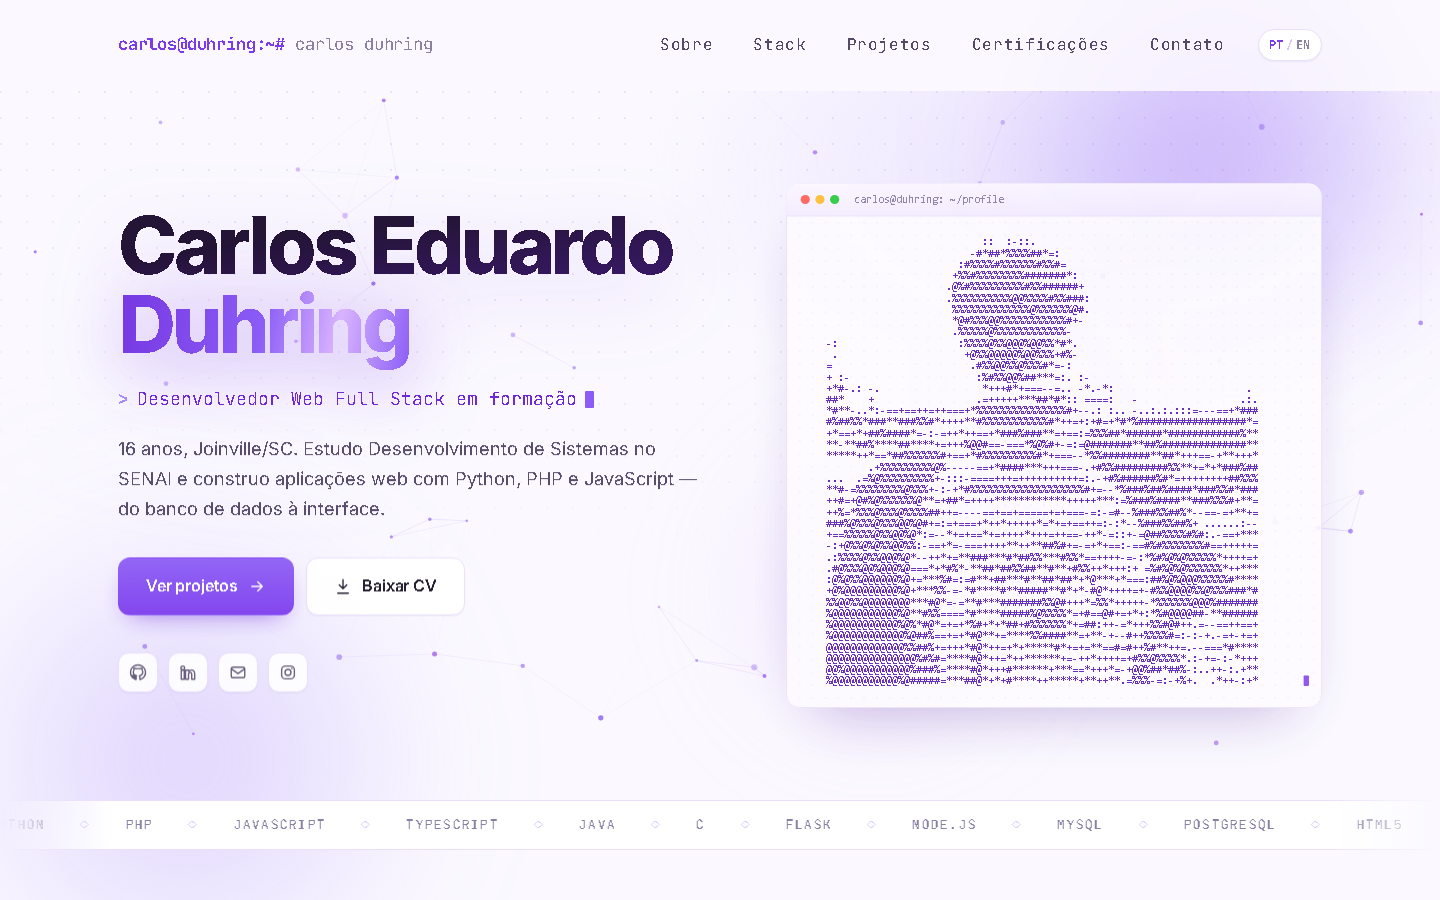
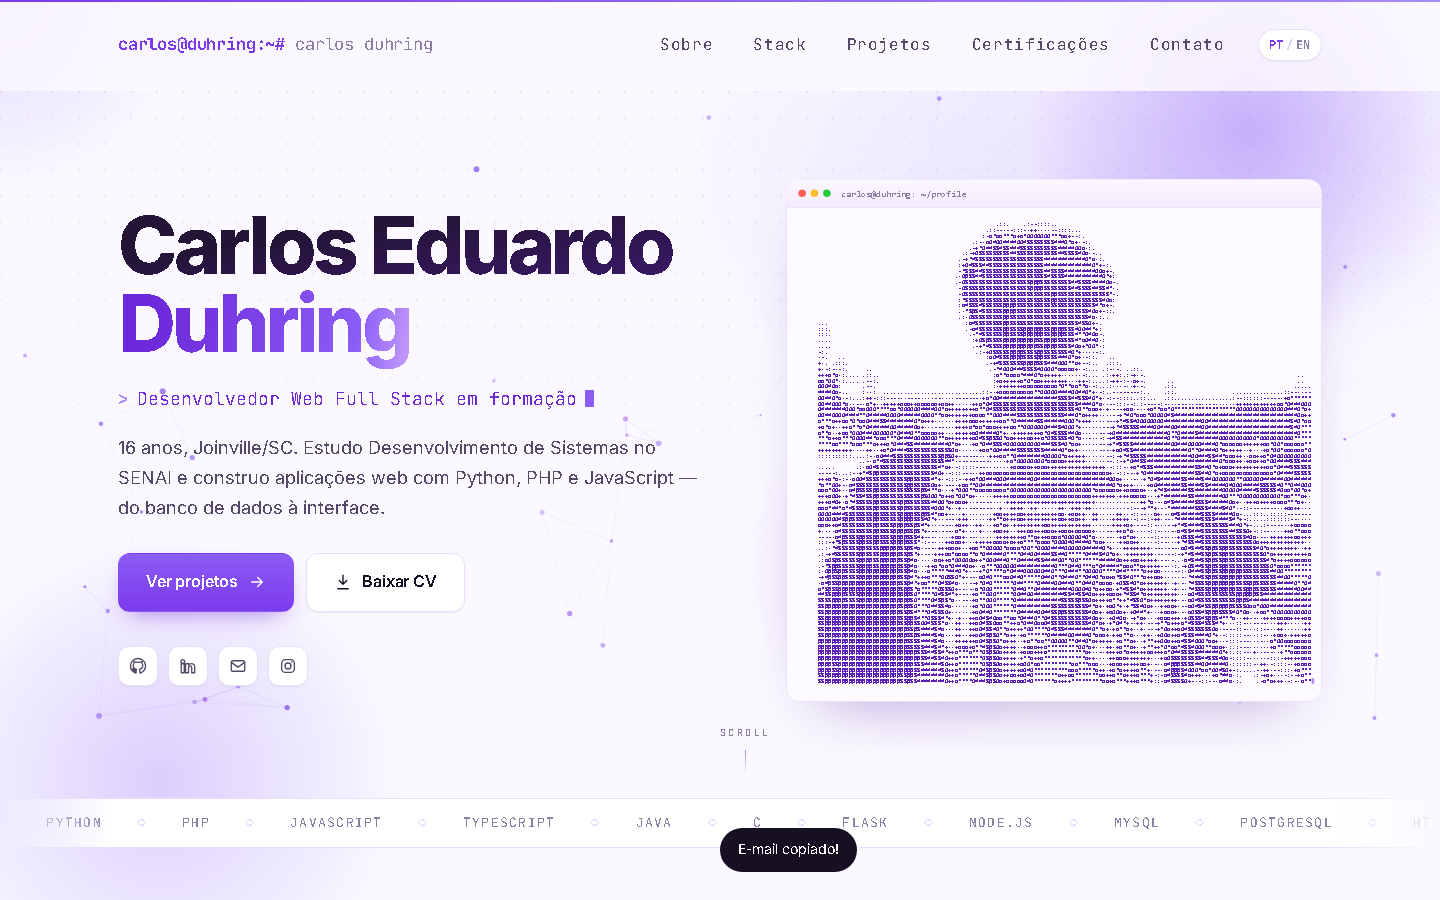
feat: ascii em 2x com reamostragem bicubica (144x80 caracteres)

diff --git a/scripts/build-ascii.js b/scripts/build-ascii.js
@@ -1,9 +1,14 @@
 /* Gera assets/img/ascii-avatar.svg a partir de assets/img/ascii-art.txt.
    Uso: node scripts/build-ascii.js
 
-   FIRST_ROW / LAST_ROW  -> recorte vertical (linhas da arte)
-   COL_START / COL_END   -> recorte horizontal (colunas)
-   SQUASH                -> comprime a altura (1 = original, 0.84 = mais quadrado)
+   O desenho base tem 72 colunas x 44 linhas. Para ganhar detalhe, ele e
+   reamostrado (bicubico + unsharp) para SCALE vezes mais colunas/linhas,
+   e depois convertido para uma rampa de 12 tons. Resultado: mesma pessoa,
+   com muito mais caracteres e transicoes suaves.
+
+   FIRST_ROW / LAST_ROW / COL_START / COL_END -> recorte do desenho base
+   SCALE   -> 2 = dobro de colunas e linhas
+   SQUASH  -> comprime a altura (1 = original)
 */
 
 const fs = require("fs");
@@ -13,46 +18,128 @@ const ROOT = path.resolve(__dirname, "..");
 const SRC = path.join(ROOT, "assets", "img", "ascii-art.txt");
 const OUT = path.join(ROOT, "assets", "img", "ascii-avatar.svg");
 
-const FIRST_ROW = 4; // corta o topo vazio
-const LAST_ROW = 43; // arte completa (até o fim)
+const FIRST_ROW = 4;
+const LAST_ROW = 43;
 const COL_START = 0;
 const COL_END = 72;
-const SQUASH = 0.84; // deixa o retrato mais quadrado, sem cortar nada
+const SCALE = 2;
+const SQUASH = 0.94;
 
-const FONT = 12;
+const RAMP = " .:-=+o*O#%@"; // 12 tons, do claro ao escuro
+const FONT = 6;
 const CHAR_W = FONT * 0.6;
-const LINE_H = FONT * 1.2167 * SQUASH;
-const PAD_X = 22;
-const BAR_H = 36;
-const PAD_TOP = 20;
-const PAD_BOTTOM = 18;
+const LINE_H = FONT * 1.08 * SQUASH;
+const BAR_H = 30;
+const PAD_TOP = 14;
+const PAD_BOTTOM = 14;
+const PAD_X = 12;
 
-const lines = fs.readFileSync(SRC, "utf8").replace(/\r/g, "").split("\n");
-
-const block = lines
+const raw = fs.readFileSync(SRC, "utf8").replace(/\r/g, "").split("\n");
+const base = raw
   .slice(FIRST_ROW, LAST_ROW + 1)
-  .map((line) => line.padEnd(COL_END, " ").slice(COL_START, COL_END).replace(/\s+$/, ""));
+  .map((l) => l.padEnd(COL_END, " ").slice(COL_START, COL_END));
 
-const cols = Math.max(...block.map((l) => l.length));
-// a cabeca nao fica no centro da arte original: desloca 3 colunas para
-// centralizar o rosto no card, sem cortar nada
-const PAD_LEFT = PAD_X + 3 * CHAR_W;
-const width = Math.round(cols * CHAR_W + PAD_LEFT + PAD_X);
+const SHADE = {};
+RAMP.split("").forEach((ch, i) => (SHADE[ch] = i / (RAMP.length - 1)));
+
+// 1. desenho base -> campo de densidade (0 = claro, 1 = escuro)
+const src = base.map((line) =>
+  [...line].map((ch) => (ch === " " ? 0 : SHADE[ch] !== undefined ? SHADE[ch] : 0.75))
+);
+
+// 2. bicubico (Catmull-Rom) com borda replicada
+const cr = (t) => {
+  const a = -0.5;
+  return t < 1
+    ? (a + 2) * t * t * t - (a + 3) * t * t + 1
+    : a * t * t * t - 5 * a * t * t + 8 * a * t - 4 * a;
+};
+const at = (grid, y, x) => {
+  const h = grid.length,
+    w = grid[0].length;
+  const yy = Math.min(h - 1, Math.max(0, y));
+  const xx = Math.min(w - 1, Math.max(0, x));
+  return grid[yy][xx];
+};
+function sampleBicubic(grid, fy, fx) {
+  const y0 = Math.floor(fy),
+    x0 = Math.floor(fx);
+  const ty = fy - y0,
+    tx = fx - x0;
+  let out = 0,
+    wsum = 0;
+  for (let m = -1; m <= 2; m++) {
+    const wy = cr(Math.abs(m - ty));
+    for (let n = -1; n <= 2; n++) {
+      const wx = cr(Math.abs(n - tx));
+      const w = wy * wx;
+      out += w * at(grid, y0 + m, x0 + n);
+      wsum += w;
+    }
+  }
+  return out / wsum;
+}
+
+const rows = src.length * SCALE;
+const cols = src[0].length * SCALE;
+let field = [];
+for (let y = 0; y < rows; y++) {
+  const row = [];
+  for (let x = 0; x < cols; x++) {
+    row.push(sampleBicubic(src, (y + 0.5) / SCALE - 0.5, (x + 0.5) / SCALE - 0.5));
+  }
+  field.push(row);
+}
+
+// 3. suaviza o ruido dos caracteres originais e recupera a definicao das bordas
+const blurOnce = (grid) =>
+  grid.map((row, y) =>
+    row.map((_, x) => {
+      let s = 0,
+        w = 0;
+      for (let dy = -1; dy <= 1; dy++)
+        for (let dx = -1; dx <= 1; dx++) {
+          const k = dy === 0 && dx === 0 ? 4 : dy === 0 || dx === 0 ? 2 : 1;
+          s += at(grid, y + dy, x + dx) * k;
+          w += k;
+        }
+      return s / w;
+    })
+  );
+
+let smooth = field;
+for (let i = 0; i < 2; i++) smooth = blurOnce(smooth);
+
+field = field.map((row, y) =>
+  row.map((v, x) => Math.min(1, Math.max(0, smooth[y][x] + 0.55 * (v - smooth[y][x]))))
+);
+
+// 4. densidade -> caracteres
+const art = field.map((row) =>
+  row.map((v) => RAMP[Math.min(RAMP.length - 1, Math.round(v * (RAMP.length - 1)))]).join("")
+);
+
+const artCols = cols;
+const artRows = rows;
+
+// a cabeca nao fica no centro do desenho base: desloca 3 colunas (base) para a direita
+const PAD_LEFT = PAD_X + 3 * SCALE * CHAR_W;
+const width = Math.round(artCols * CHAR_W + PAD_LEFT + PAD_X);
 const artTop = BAR_H + PAD_TOP + FONT;
-const height = Math.round(artTop + (block.length - 1) * LINE_H + FONT * 0.6 + PAD_BOTTOM);
+const height = Math.round(artTop + (artRows - 1) * LINE_H + FONT * 0.9 + PAD_BOTTOM);
 
 const esc = (t) => t.replace(/&/g, "&amp;").replace(/</g, "&lt;").replace(/>/g, "&gt;");
 
-const rows = block
+const tspans = art
   .map((line, i) => {
-    const y = (artTop + i * LINE_H).toFixed(1);
-    return `<tspan x="${PAD_LEFT.toFixed(1)}" y="${y}">${esc(line) || " "}</tspan>`;
+    const y = (artTop + i * LINE_H).toFixed(2);
+    return `<tspan x="${PAD_LEFT.toFixed(2)}" y="${y}" textLength="${(artCols * CHAR_W).toFixed(2)}" lengthAdjust="spacing">${esc(line) || " "}</tspan>`;
   })
   .join("\n    ");
 
-const lastIdx = block.reduce((acc, l, i) => (l.trim() ? i : acc), 0);
-const cursorX = (PAD_LEFT + (block[lastIdx] || "").length * CHAR_W + 2).toFixed(1);
-const cursorY = (artTop + lastIdx * LINE_H - FONT * 0.82).toFixed(1);
+const lastIdx = art.reduce((acc, l, i) => (l.trim() ? i : acc), 0);
+const cursorX = (PAD_LEFT + art[lastIdx].length * CHAR_W + 1).toFixed(1);
+const cursorY = (artTop + lastIdx * LINE_H - FONT * 0.85).toFixed(1);
 
 const svg = `<svg xmlns="http://www.w3.org/2000/svg" width="${width}" height="${height}" viewBox="0 0 ${width} ${height}" role="img" aria-label="Retrato de Carlos Duhring em arte ASCII">
   <defs>
@@ -61,7 +148,7 @@ const svg = `<svg xmlns="http://www.w3.org/2000/svg" width="${width}" height="${
       <stop offset="1" stop-color="#f4ecff"/>
     </linearGradient>
     <pattern id="dots" width="14" height="14" patternUnits="userSpaceOnUse">
-      <circle cx="1" cy="1" r="1" fill="#6d28d9" opacity="0.07"/>
+      <circle cx="1" cy="1" r="1" fill="#6d28d9" opacity="0.06"/>
     </pattern>
     <clipPath id="card">
       <rect x="0.5" y="0.5" width="${width - 1}" height="${height - 1}" rx="14"/>
@@ -77,20 +164,20 @@ const svg = `<svg xmlns="http://www.w3.org/2000/svg" width="${width}" height="${
   <path d="M0.5 14.5A14 14 0 0 1 14.5 0.5H${width - 14.5}A14 14 0 0 1 ${width - 0.5} 14.5V${BAR_H}H0.5Z" fill="url(#bar)"/>
   <line x1="0.5" y1="${BAR_H}" x2="${width - 0.5}" y2="${BAR_H}" stroke="#eadffb"/>
 
-  <circle cx="21" cy="18" r="5" fill="#ff5f56"/>
-  <circle cx="37" cy="18" r="5" fill="#ffbd2e"/>
-  <circle cx="53" cy="18" r="5" fill="#27c93f"/>
-  <text x="74" y="22" font-family="ui-monospace,SFMono-Regular,Menlo,Consolas,monospace" font-size="11.5" fill="#8a80a3">carlos@duhring: ~/profile</text>
+  <circle cx="17" cy="15" r="4" fill="#ff5f56"/>
+  <circle cx="30" cy="15" r="4" fill="#ffbd2e"/>
+  <circle cx="43" cy="15" r="4" fill="#27c93f"/>
+  <text x="58" y="19" font-family="ui-monospace,SFMono-Regular,Menlo,Consolas,monospace" font-size="10" fill="#8a80a3">carlos@duhring: ~/profile</text>
 
   <text font-family="ui-monospace,SFMono-Regular,Menlo,Consolas,monospace" font-size="${FONT}" fill="#5b21b6" xml:space="preserve">
-    ${rows}
+    ${tspans}
   </text>
 
-  <rect x="${cursorX}" y="${cursorY}" width="${(CHAR_W * 0.8).toFixed(1)}" height="${(FONT * 0.95).toFixed(1)}" rx="1" fill="#7c3aed">
+  <rect x="${cursorX}" y="${cursorY}" width="${(CHAR_W * 0.8).toFixed(1)}" height="${(FONT * 0.95).toFixed(1)}" rx="0.5" fill="#7c3aed">
     <animate attributeName="opacity" values="1;0;1" dur="1.1s" repeatCount="indefinite"/>
   </rect>
 </svg>
 `;
 
 fs.writeFileSync(OUT, svg, "utf8");
-console.log(`ok — ${width}x${height} · ${block.length} linhas · ${cols} colunas · squash ${SQUASH}`);
+console.log(`ok — ${width}x${height} · ${artRows} linhas x ${artCols} colunas (${SCALE}x)`);

diff --git a/index.html b/index.html
@@ -23,7 +23,7 @@
       href="https://fonts.googleapis.com/css2?family=Inter:wght@400;500;600;700;800&family=JetBrains+Mono:wght@400;500;700&display=swap"
       rel="stylesheet"
     />
-    <link rel="stylesheet" href="assets/css/style.css?v=5" />
+    <link rel="stylesheet" href="assets/css/style.css?v=6" />
     <noscript>
       <style>
         .reveal {
@@ -172,8 +172,8 @@
             <div class="hero__art-glow" aria-hidden="true"></div>
             <img
               src="assets/img/ascii-avatar.svg"
-              width="584"
-              height="572"
+              width="564"
+              height="551"
               alt="Retrato de Carlos Duhring em arte ASCII, dentro de uma janela de terminal"
             />
           </div>
@@ -615,9 +615,9 @@
       E-mail copiado!
     </div>
 
-    <script src="assets/js/i18n.js?v=5"></script>
-    <script src="assets/js/particles.js?v=5"></script>
-    <script src="assets/js/motion.js?v=5"></script>
-    <script src="assets/js/main.js?v=5"></script>
+    <script src="assets/js/i18n.js?v=6"></script>
+    <script src="assets/js/particles.js?v=6"></script>
+    <script src="assets/js/motion.js?v=6"></script>
+    <script src="assets/js/main.js?v=6"></script>
   </body>
 </html>
